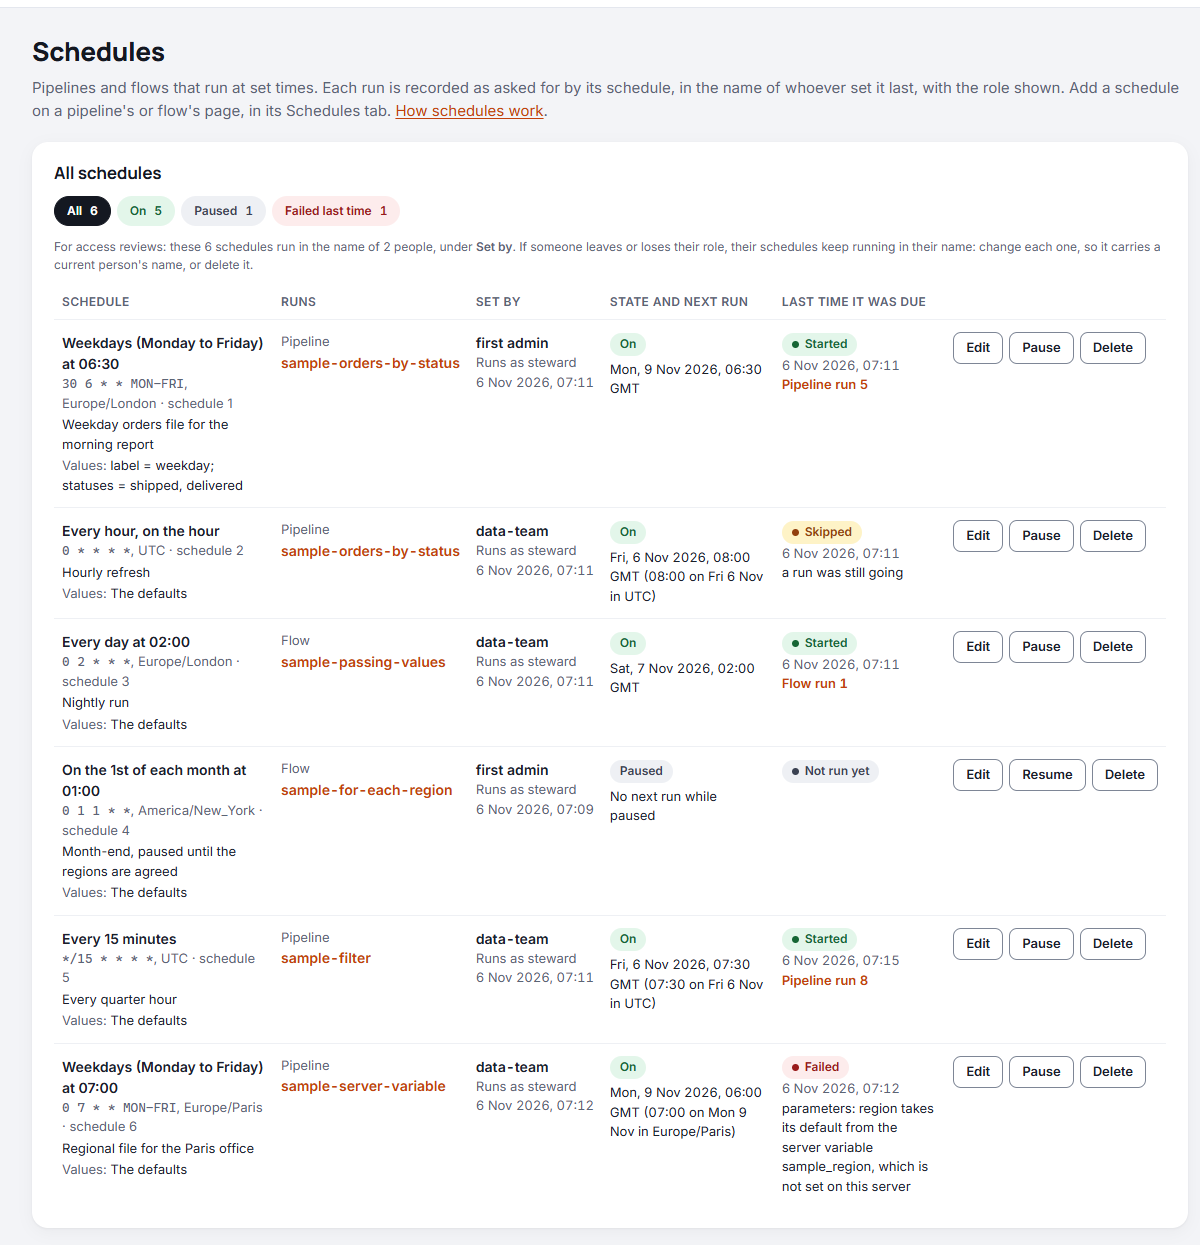
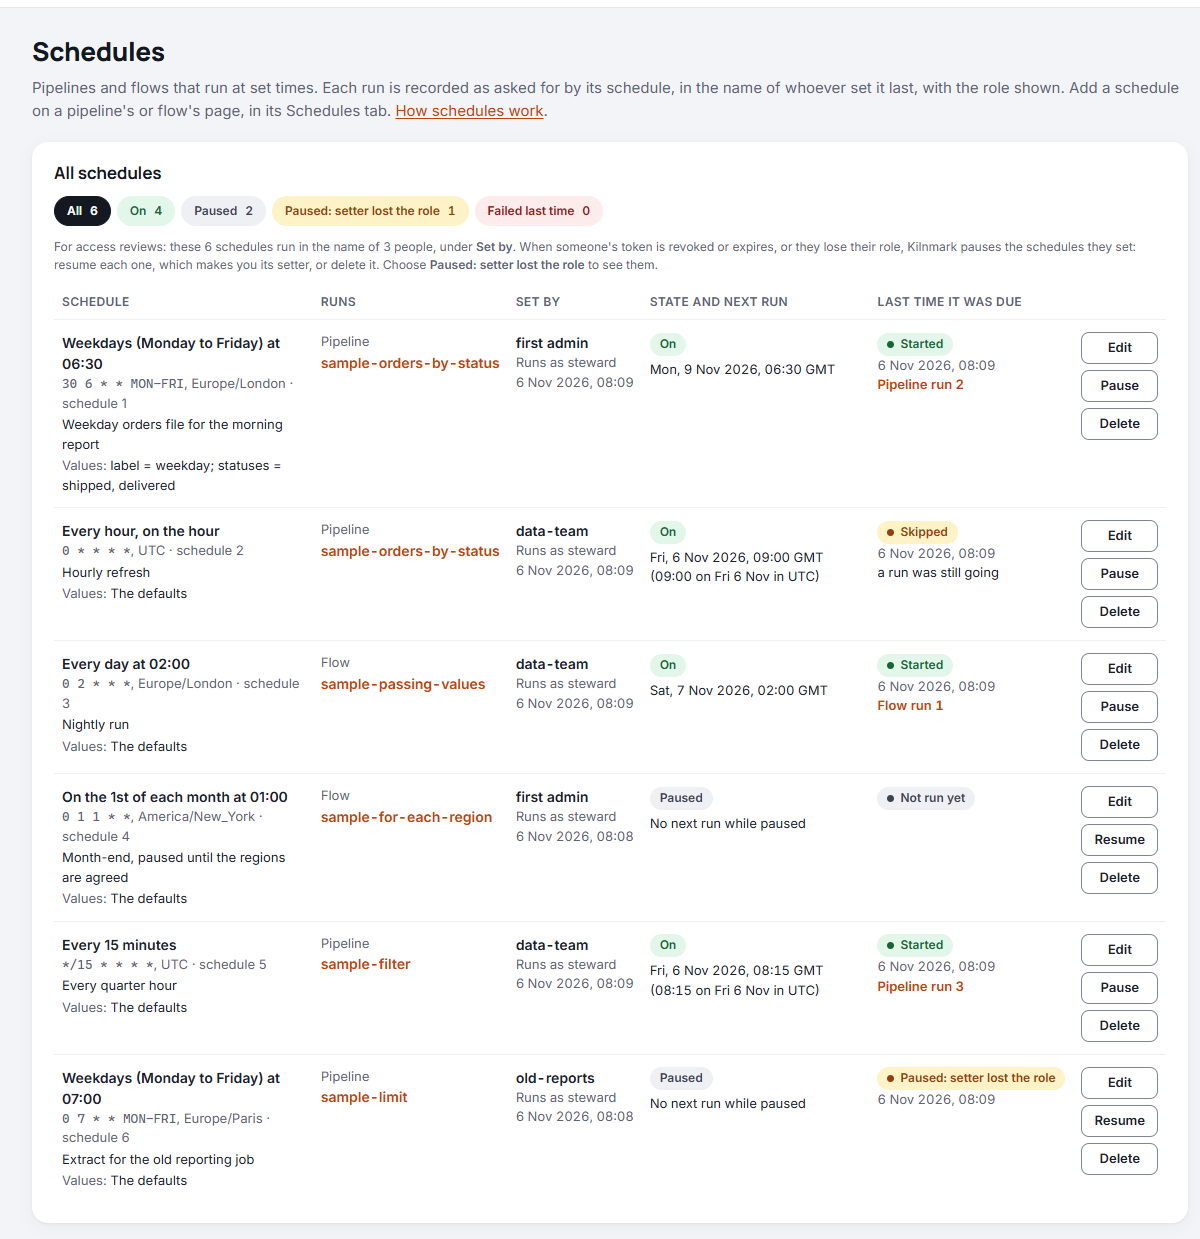
Scheduler pages: retaken pictures with a schedule paused for its setter
- The schedules table stacks each row's buttons, so the wider
  "Paused: setter lost the role" outcome keeps it within 1200 pixels.
- schedules-page.png and schedules-section.png retaken from a fresh
  local Kilnmark with the samples only; the page shows a schedule
  Kilnmark paused when the token that set it was revoked, and the new
  filter. The guide's description says so.

diff --git a/ui/src/schedules/schedules.css b/ui/src/schedules/schedules.css
@@ -51,7 +51,10 @@
   margin-top: 2px;
 }
 
+/* The row's buttons one above another, so the table keeps to the page's width. */
 .sc-table .buttons.tight {
+  flex-direction: column;
+  align-items: stretch;
   flex-wrap: nowrap;
 }
 

diff --git a/docs/guide/schedules.md b/docs/guide/schedules.md
@@ -237,7 +237,7 @@ the role** or **Failed last time** to see only those; each says how many there a
 holds every schedule that is off, whoever paused it; **Paused: setter lost the role** only those
 Kilnmark paused because whoever set them lost the role.
 
-![The Schedules page: filters for All 6, On 5, Paused 1 and Failed last time 1; a note for access reviews saying the 6 schedules run in the name of 2 people; and a table of every schedule with when it runs, the pipeline or flow it runs, linked, who set it and its role, its state and next run, and the last time it was due: Started with a link to the run, Skipped because a run was still going, Not run yet for the paused one, and Failed with the reason, a server variable that was not set](images/schedules-page.png)
+![The Schedules page: filters for All 6, On 4, Paused 2, Paused: setter lost the role 1 and Failed last time 0; a note for access reviews saying the 6 schedules run in the name of 3 people, and that Kilnmark pauses the schedules of someone whose token is revoked or who loses their role; and a table of every schedule with when it runs, the pipeline or flow it runs, linked, who set it and its role, its state and next run, the last time it was due, and Edit, Pause or Resume, and Delete. The last time it was due reads Started with a link to the run, Skipped because a run was still going, Not run yet for the one a person paused, and, in amber, Paused: setter lost the role for the one set by a token that was revoked](images/schedules-page.png)
 
 **For access reviews**, admins see a note saying how many people the schedules run in the name of.
 Read the **Set by** column. When someone's token is revoked or expires, or they lose their role,
